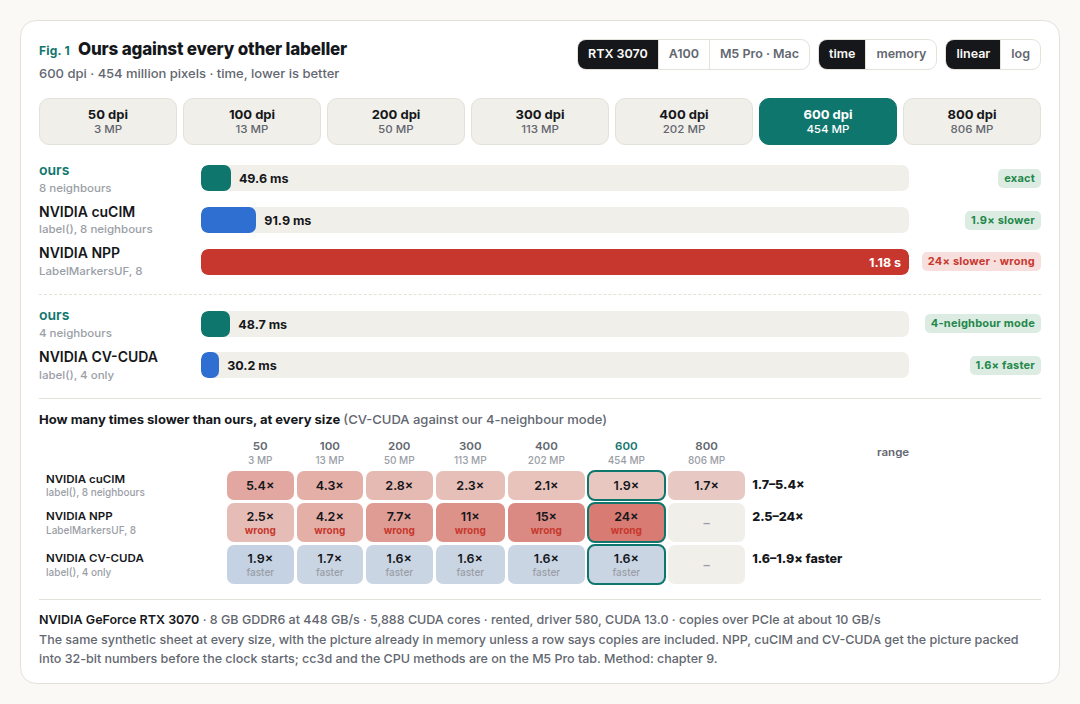
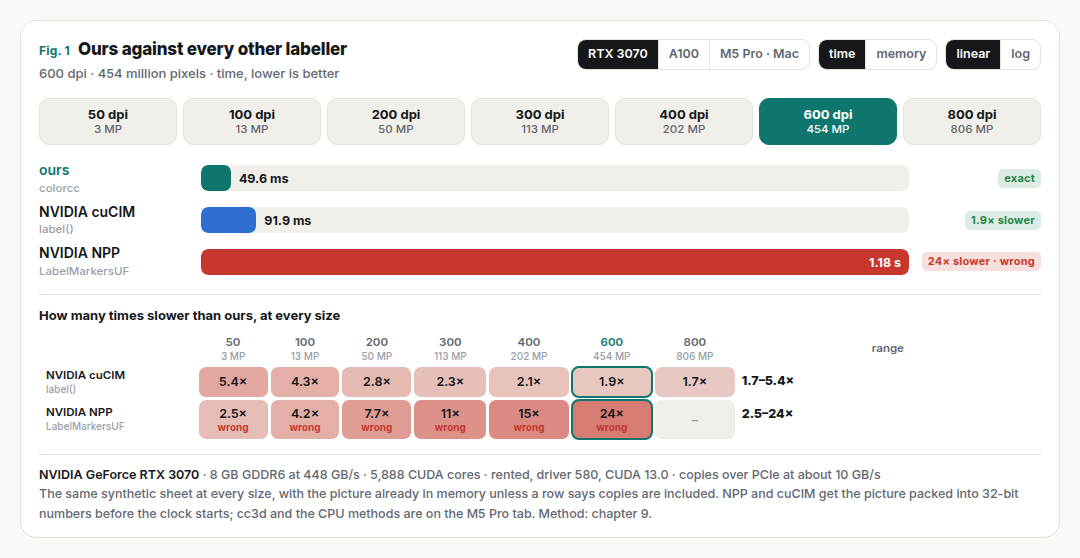
Results: NPP speed columns instead of the 4-neighbour comparison

diff --git a/bench/tables.py b/bench/tables.py
@@ -64,13 +64,13 @@ def main():
     for gpu, files in LIBS.items():
         body = []
         for g in libs(files):
-            o, c, n, o4, cv = (g.get(k, {}) for k in ("ours", "cucim", "npp_raw", "ours4", "cvcuda4"))
+            o, c, n = (g.get(k, {}) for k in ("ours", "cucim", "npp_raw"))
             ratio = lambda a, b: f"{a['time'] / b['time']:.1f}x" if "time" in a and "time" in b else "–"
             body.append([str(g["dpi"]), f"{g['mpx']:.0f}", ms(o.get("time")), ms(c.get("time")), ratio(c, o),
-                         mb(o.get("peak")), mb(c.get("peak")), mb(n.get("peak")), ms(o4.get("time")), ms(cv.get("time")), ratio(o4, cv)])
+                         ms(n.get("time")), ratio(n, o), mb(o.get("peak")), mb(c.get("peak")), mb(n.get("peak"))])
         note = " (earlier benchmark; small-size ratios approximate)" if "A100" in gpu else ""
         out += [f"### Against NVIDIA's libraries, {gpu}{note}", "",
-                table(["dpi", "MP", "ours", "cuCIM", "cuCIM / ours", "memory: ours", "cuCIM", "NPP", "ours, 4 nbrs", "CV-CUDA, 4 nbrs", "ours4 / CV-CUDA"], body), ""]
+                table(["dpi", "MP", "ours", "cuCIM", "cuCIM / ours", "NPP (wrong labels)", "NPP / ours", "memory: ours", "cuCIM", "NPP"], body), ""]
     print("\n".join(out))
 
 

diff --git a/results/README.md b/results/README.md
@@ -16,7 +16,8 @@ On an RTX 3070, with the picture already on the GPU:
 - **1.7x faster than NVIDIA cuCIM** on the full sheet, rising to 5.4x on a 3-megapixel render, where cuCIM's
   fixed per-call cost dominates. Same regions, same GPU memory (cuCIM also needs a 32-bit copy of a colour picture first; colorcc reads RGB).
 - **NVIDIA NPP** gave wrong labels at every size, so it is not a reference (it also used twice the memory).
-- **NVIDIA CV-CUDA** only joins 4 neighbours, and there it is 1.6–1.9x *faster* than colorcc's 4-neighbour mode.
+- **NVIDIA NPP** is 2.5x slower on the 3-megapixel render and 24x slower at 454 megapixels.
+- NVIDIA CV-CUDA's `label` joins only 4 neighbours, which splits diagonal lines, so it is not compared.
 
 On the Apple M5 Pro the sheet takes 151 ms, 17x faster than cc3d on one CPU core of the same Mac (2.59 s).
 
@@ -65,27 +66,27 @@ On the Apple M5 Pro the sheet takes 151 ms, 17x faster than cc3d on one CPU core
 
 ### Against NVIDIA's libraries, RTX 3070
 
-| dpi | MP | ours | cuCIM | cuCIM / ours | memory: ours | cuCIM | NPP | ours, 4 nbrs | CV-CUDA, 4 nbrs | ours4 / CV-CUDA |
-|---|---|---|---|---|---|---|---|---|---|---|
-| 50 | 3 | 0.50 ms | 2.73 ms | 5.4x | 12.7 MB | 13.2 MB | 25.2 MB | 0.48 ms | 0.25 ms | 1.9x |
-| 100 | 13 | 1.60 ms | 6.83 ms | 4.3x | 50.6 MB | 51.3 MB | 100.8 MB | 1.49 ms | 0.88 ms | 1.7x |
-| 200 | 50 | 5.61 ms | 15.7 ms | 2.8x | 202.4 MB | 203.1 MB | 403.2 MB | 5.51 ms | 3.37 ms | 1.6x |
-| 300 | 113 | 12.4 ms | 28.8 ms | 2.3x | 455.4 MB | 455.7 MB | 907.2 MB | 12.3 ms | 7.65 ms | 1.6x |
-| 400 | 202 | 22.6 ms | 47.7 ms | 2.1x | 810.6 MB | 810.2 MB | 1.61 GB | 22.1 ms | 13.4 ms | 1.6x |
-| 600 | 454 | 49.6 ms | 91.9 ms | 1.9x | 1.82 GB | 1.82 GB | 3.63 GB | 48.7 ms | 30.2 ms | 1.6x |
-| 800 | 806 | 88.9 ms | 151.5 ms | 1.7x | 3.24 GB | 3.23 GB | – | 86.8 ms | – | – |
+| dpi | MP | ours | cuCIM | cuCIM / ours | NPP (wrong labels) | NPP / ours | memory: ours | cuCIM | NPP |
+|---|---|---|---|---|---|---|---|---|---|
+| 50 | 3 | 0.50 ms | 2.73 ms | 5.4x | 1.26 ms | 2.5x | 12.7 MB | 13.2 MB | 25.2 MB |
+| 100 | 13 | 1.60 ms | 6.83 ms | 4.3x | 6.73 ms | 4.2x | 50.6 MB | 51.3 MB | 100.8 MB |
+| 200 | 50 | 5.61 ms | 15.7 ms | 2.8x | 43.0 ms | 7.7x | 202.4 MB | 203.1 MB | 403.2 MB |
+| 300 | 113 | 12.4 ms | 28.8 ms | 2.3x | 139.9 ms | 11.3x | 455.4 MB | 455.7 MB | 907.2 MB |
+| 400 | 202 | 22.6 ms | 47.7 ms | 2.1x | 332.5 ms | 14.7x | 810.6 MB | 810.2 MB | 1.61 GB |
+| 600 | 454 | 49.6 ms | 91.9 ms | 1.9x | 1.18 s | 23.7x | 1.82 GB | 1.82 GB | 3.63 GB |
+| 800 | 806 | 88.9 ms | 151.5 ms | 1.7x | – | – | 3.24 GB | 3.23 GB | – |
 
 ### Against NVIDIA's libraries, A100 PCIe (earlier benchmark; small-size ratios approximate)
 
-| dpi | MP | ours | cuCIM | cuCIM / ours | memory: ours | cuCIM | NPP | ours, 4 nbrs | CV-CUDA, 4 nbrs | ours4 / CV-CUDA |
-|---|---|---|---|---|---|---|---|---|---|---|
-| 50 | 3 | 0.21 ms | 5.65 ms | 26.6x | 12.7 MB | 13.2 MB | 25.2 MB | 0.34 ms | – | – |
-| 100 | 13 | 1.20 ms | 12.7 ms | 10.6x | 50.6 MB | 51.3 MB | 100.8 MB | 1.25 ms | – | – |
-| 200 | 50 | 4.40 ms | 34.8 ms | 7.9x | 202.4 MB | 203.1 MB | 403.2 MB | 4.32 ms | – | – |
-| 300 | 113 | 10.4 ms | 59.8 ms | 5.8x | 455.4 MB | 455.7 MB | 907.2 MB | 9.58 ms | – | – |
-| 400 | 202 | 18.5 ms | 69.4 ms | 3.7x | 810.6 MB | 810.2 MB | 1.61 GB | 18.2 ms | – | – |
-| 600 | 454 | 39.1 ms | 86.3 ms | 2.2x | 1.82 GB | 1.82 GB | 3.63 GB | 27.9 ms | – | – |
-| 800 | 806 | 48.9 ms | 133.2 ms | 2.7x | 3.24 GB | 3.23 GB | – | 47.8 ms | – | – |
+| dpi | MP | ours | cuCIM | cuCIM / ours | NPP (wrong labels) | NPP / ours | memory: ours | cuCIM | NPP |
+|---|---|---|---|---|---|---|---|---|---|
+| 50 | 3 | 0.21 ms | 5.65 ms | 26.6x | 1.17 ms | 5.5x | 12.7 MB | 13.2 MB | 25.2 MB |
+| 100 | 13 | 1.20 ms | 12.7 ms | 10.6x | 5.92 ms | 4.9x | 50.6 MB | 51.3 MB | 100.8 MB |
+| 200 | 50 | 4.40 ms | 34.8 ms | 7.9x | 30.5 ms | 6.9x | 202.4 MB | 203.1 MB | 403.2 MB |
+| 300 | 113 | 10.4 ms | 59.8 ms | 5.8x | 55.0 ms | 5.3x | 455.4 MB | 455.7 MB | 907.2 MB |
+| 400 | 202 | 18.5 ms | 69.4 ms | 3.7x | 96.0 ms | 5.2x | 810.6 MB | 810.2 MB | 1.61 GB |
+| 600 | 454 | 39.1 ms | 86.3 ms | 2.2x | 292.6 ms | 7.5x | 1.82 GB | 1.82 GB | 3.63 GB |
+| 800 | 806 | 48.9 ms | 133.2 ms | 2.7x | – | – | 3.24 GB | 3.23 GB | – |
 
 ## How it was measured
 
@@ -97,17 +98,16 @@ timing comes from one synthetic sheet (`bench/synth_sheet.py`), mostly paper; pi
 behave differently. cc3d's times in `rtx3070/sheet.json` (50 s at 800 dpi) come from the rented box's shared server
 CPU and are not quoted; the cc3d reference is one core of the M5 Pro (2.59 s).
 `bench/nvidia.py` (the library comparison) runs each library in its own process, warms it up for at least half a
-second so the GPU is at its working clock, and takes the median of 5 calls (3 at 600 and 800 dpi). NPP, cuCIM and
-CV-CUDA get the picture already packed into one 32-bit number per pixel before the clock starts, the RGB picture
+second so the GPU is at its working clock, and takes the median of 5 calls (3 at 600 and 800 dpi). NPP and cuCIM
+get the picture already packed into one 32-bit number per pixel before the clock starts, the RGB picture
 is then freed, and NPP's stream context is made once: each library is timed on its own work. Memory is the peak
-GPU allocation of one more call, beyond each method's input (CV-CUDA allocates outside PyTorch and is not
-counted). Copies to and from the GPU depend on the machine's PCIe link, about 10 GB/s on the RTX 3070 here.
+GPU allocation of one more call, beyond each method's input. Copies to and from the GPU depend on the machine's PCIe link, about 10 GB/s on the RTX 3070 here.
 
 ## The machines and the files
 
 | folder | machine | what |
 |---|---|---|
-| `rtx3070/` | RTX 3070 8 GB, driver 580, CUDA 13.0, PyTorch 2.14.1, CuPy 14.2.0, NPP 13.0.1, cuCIM 26.10.0, CV-CUDA 0.19.0 | the published wheel, installed fresh: `tests.txt` (285 passed), `sheet.json` (sweep), `nvidia.json` (comparison), `e2e.json` (copies), `freeze.txt` (every package version); `warmup-check/`: the same comparison with a one-call warm-up, which left the GPU below its working clock at the smallest sizes |
+| `rtx3070/` | RTX 3070 8 GB, driver 580, CUDA 13.0, PyTorch 2.14.1, CuPy 14.2.0, NPP 13.0.1, cuCIM 26.10.0 | the published wheel, installed fresh: `tests.txt` (285 passed), `sheet.json` (sweep), `nvidia.json` (comparison), `e2e.json` (copies), `freeze.txt` (every package version); `warmup-check/`: the same comparison with a one-call warm-up, which left the GPU below its working clock at the smallest sizes |
 | `m5/` | Apple M5 Pro | `m5pro_sheet.json` (sweep), `e2e.json`, `tests.txt` (285 passed, colorcc 0.1.1 installed from PyPI) |
 | `a100-pcie/` | A100 PCIe 40 GB, driver 595, CUDA 13.2 | `sheet.json`, `e2e.json`, `nvidia.json`, `tests.txt`, from an earlier version of the package and of `nvidia.py` (which timed cuCIM through PyTorch's allocator); on one RTX 3070 that benchmark version's cuCIM ratios were within 1% at 200 to 600 dpi but up to 20% high at 50 and 100 dpi, so the A100's small-size ratios are approximate |
 | `rtx3070-profile/` | RTX 3070 | `layouts.json`: the join-order profile (`bench/profile.py`) behind "joining the row above first is about 10x faster" |

diff --git a/README.md b/README.md
@@ -71,7 +71,7 @@ python examples/label_png.py drawing.png labels.png
 
 On an RTX 3070, with the picture already on the GPU, the full 806-megapixel drawing takes **89 ms**:
 
-<img src="https://raw.githubusercontent.com/Acero-AI/colorcc/main/docs/benchmarks.png" alt="colorcc against NVIDIA cuCIM, NPP and CV-CUDA on an RTX 3070, at every size from 3 to 806 megapixels" width="100%">
+<img src="https://raw.githubusercontent.com/Acero-AI/colorcc/main/docs/benchmarks.png" alt="colorcc against NVIDIA cuCIM and NPP on an RTX 3070, at every size from 3 to 806 megapixels" width="100%">
 
 <sub>Interactive, with the A100 and the Apple M5 Pro against cc3d: <a href="https://blogs.fablnx.com/posts/every-colour/#vsall">Fig. 1 of the post</a>.</sub>
 
@@ -82,8 +82,7 @@ On an RTX 3070, with the picture already on the GPU, the full 806-megapixel draw
 | NVIDIA NPP `LabelMarkersUF` | 1.26 ms (**2.5x** slower), wrong labels | 1,176 ms (**24x** slower), wrong labels | buffer-size query overflows |
 
 The same sheet takes 151 ms on an Apple M5 Pro (17x faster than cc3d on one CPU core) and 49 ms on an A100.
-cuCIM gives the same regions in the same memory; NPP needs twice the memory and splits regions at every size it ran. NVIDIA's CV-CUDA only
-joins 4 neighbours, and there it is 1.6–1.9x *faster* than colorcc's 4-neighbour mode.
+cuCIM gives the same regions in the same memory; NPP needs twice the memory and splits regions at every size it ran. 
 
 > **Every number**, at every size, with the machines, versions and method: [`results/README.md`](https://github.com/Acero-AI/colorcc/blob/main/results/README.md).
 > The same data as live charts, with what each idea is worth: [chapter 9 of the post](https://blogs.fablnx.com/posts/every-colour/#c9).
@@ -173,7 +172,7 @@ The benchmarks (`pip install -e ".[cuda12,bench]"`):
 ```bash
 python bench/synth_sheet.py sheet.pdf
 python bench/bench.py sheet.pdf --out sheet.json                  # every flag, and cc3d, 50-800 dpi
-python bench/nvidia.py cache/sheet.pdf.*.npy --out nvidia.json    # vs NPP, cuCIM, CV-CUDA (whichever are installed)
+python bench/nvidia.py cache/sheet.pdf.*.npy --out nvidia.json    # vs NPP and cuCIM (whichever are installed)
 python bench/e2e.py cache/sheet.pdf.*.npy --out e2e.json          # with copies to and from the GPU
 python bench/tables.py                                            # the tables in results/README.md
 ```
